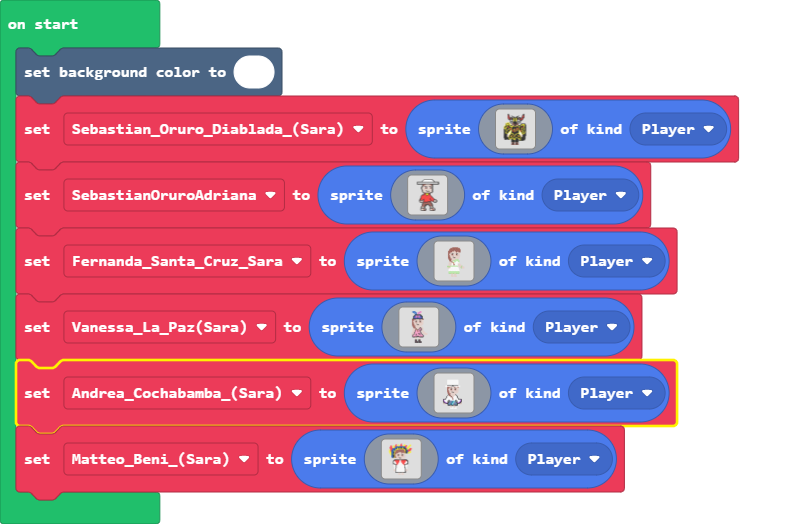
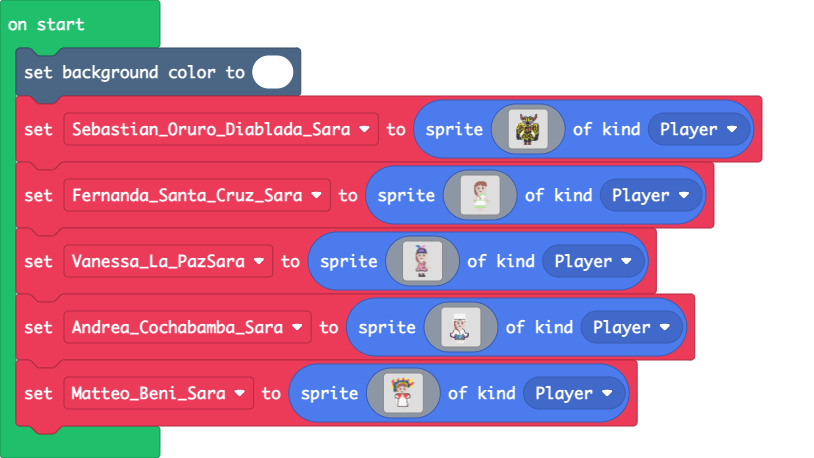
Update main.blocks, main.ts

diff --git a/main.ts b/main.ts
@@ -22,7 +22,7 @@ let Sebastian_Oruro_Diablada_Sara = sprites.create(img`
     ....555fff5......eeffffffee...............
     ....5f555f55....eeeeffffffee.....ffffffff.
     ....5f5555ff5...efeeeeeeeefe....fff55555f.
-    ....5f55f55555..ef1ffffff1fe....f5555555ff
+    ....5f55f55555..ee1ffffff1ee....f5555555ff
     ...55ff5fff5fffffe1eeeeee1effff.f555ff55ff
     ..55fff5ffff555f5555ffff55555fffffffff55ff
     .55ffff5f2ff555555ff5555fffff555fff2ff55ff
@@ -50,71 +50,16 @@ let Sebastian_Oruro_Diablada_Sara = sprites.create(img`
     ..ffffffff5ff5555f5fff5ffff555ff55fffffff.
     ..ffffffff5555.fff55555fffff.55ffffffffff.
     ..ffff..ffff...fff55555fffff..5f5fffffff..
-    ...............ffffff.ffffff.ff55fffffff..
-    ...............ffffff.ffffff.ffffffff.....
-    ...............ffffff.ffffff..............
-    ...............ffffff.ffffff..............
-    ...............ffffff.ffffff..............
+    ...............ffffff4ffffff.ff55fffffff..
+    ...............ffffff4ffffff.ffffffff.....
+    ...............ffffff4ffffff..............
+    ...............ffffff4ffffff..............
+    ...............ffffff4ffffff..............
     ................eeee...eeee...............
     ................effe...effe...............
     ...............eeffee.eeffee..............
     ...............effffe.effffe..............
     ...............eeeeee.eeeeee..............
-    `, SpriteKind.Player)
-let SebastianOruroAdriana = sprites.create(img`
-    ................fffffffffffff.............
-    ...............f1111111111111f............
-    ..............f111111111111111f...........
-    .............f11111111111111111f..........
-    ............f1111111111111111111f.........
-    ....ffffffffffffffffffffffffffffffffffff..
-    ....f1111111111111111111111111111111111f..
-    ....f1111111111111111111111111111111111f..
-    ....ffffffffffffffffffffffffffffffffffff..
-    .............feeeeeddddddeeeef............
-    .............feeeddddddddddeef............
-    .............feddddddddddddddf............
-    .............fddfffffdddffffdf............
-    ...........fffdd1b11bddd1b1bdf............
-    ...........fdddd1eeefddd1eefdf............
-    ...........fdddd1eeefddd1eefdf............
-    ...........ffddddddddddddddddf............
-    ............fddddddddddddddddf............
-    ............fddddddddddddddddf............
-    ............ffdddddfdddddddddf............
-    .............fddddddfffffddddf............
-    .............fdddddddddddddddf............
-    ..............ffddddddddddfff.............
-    ................ffffffffff................
-    ...............f22f5555f2f................
-    ...............f22f5555f2f................
-    ............ffff222f55f22f................
-    ...........f22222222ff2222f...............
-    ...........f222222222222222f..............
-    ..........f22222222222222222f.............
-    ..........f222222222222222222f............
-    ..........f2222222222222222222f...........
-    .........ff22222222222222f22222f..........
-    .........f22222f2222222222f22222f.........
-    ........ff2222ff2222222222f22222ffff......
-    ........ffffff.f22222222222f222fddddf.....
-    ........fddddd.f22222222222.f22fddddf.....
-    ........fdddddf2222222fffff...ffddddf.....
-    .........ffff.ffffffffeeeef.....ffff......
-    .............feeeeeeeeeeeeef..............
-    .............feeeeeeeeeeeeeef.............
-    .............feeeeeeeeeeeeeef.............
-    ............feeeeeffffffeeeeef............
-    ............feeeeef.....feeeef............
-    ............feeeeff.....ffeeef............
-    ...........feeeef.........fddf............
-    ...........fddddf.........fddf............
-    ...........fddddf.........fdddf...........
-    ..........ffffffff.......fffffdff.........
-    ..........fdddeeddf......fddeeeddf........
-    ..........fddddeedf......fdddeeedf........
-    ..........fddddeeef......fddddeedf........
-    ...........fffffff........fffffff.........
     `, SpriteKind.Player)
 let Fernanda_Santa_Cruz_Sara = sprites.create(img`
     .......................................
